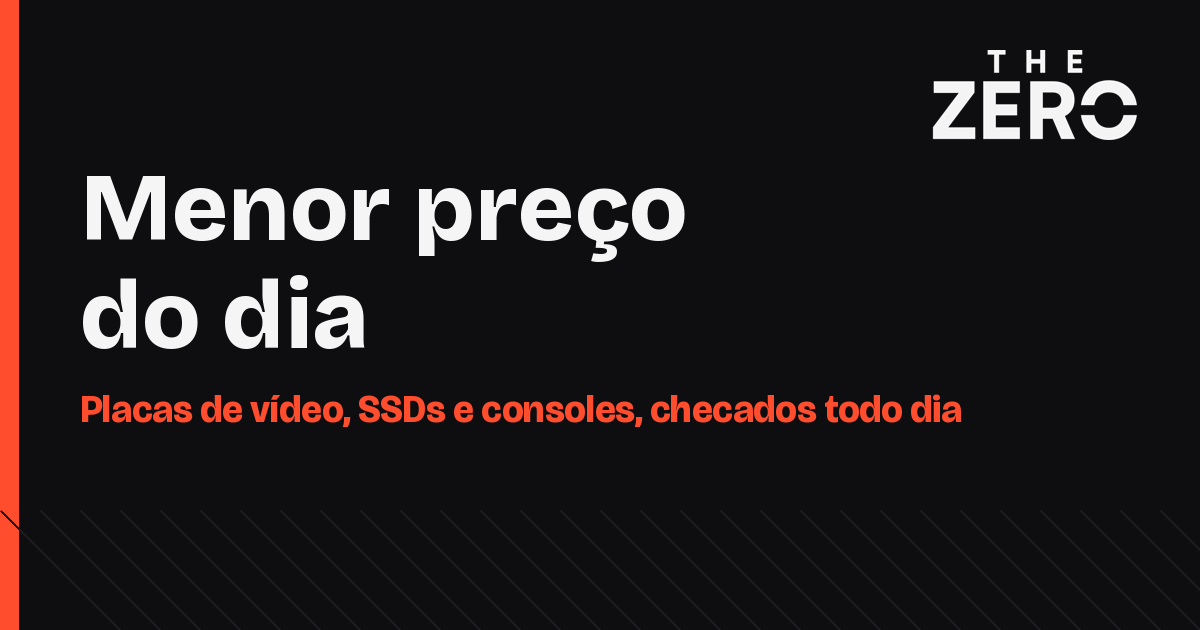
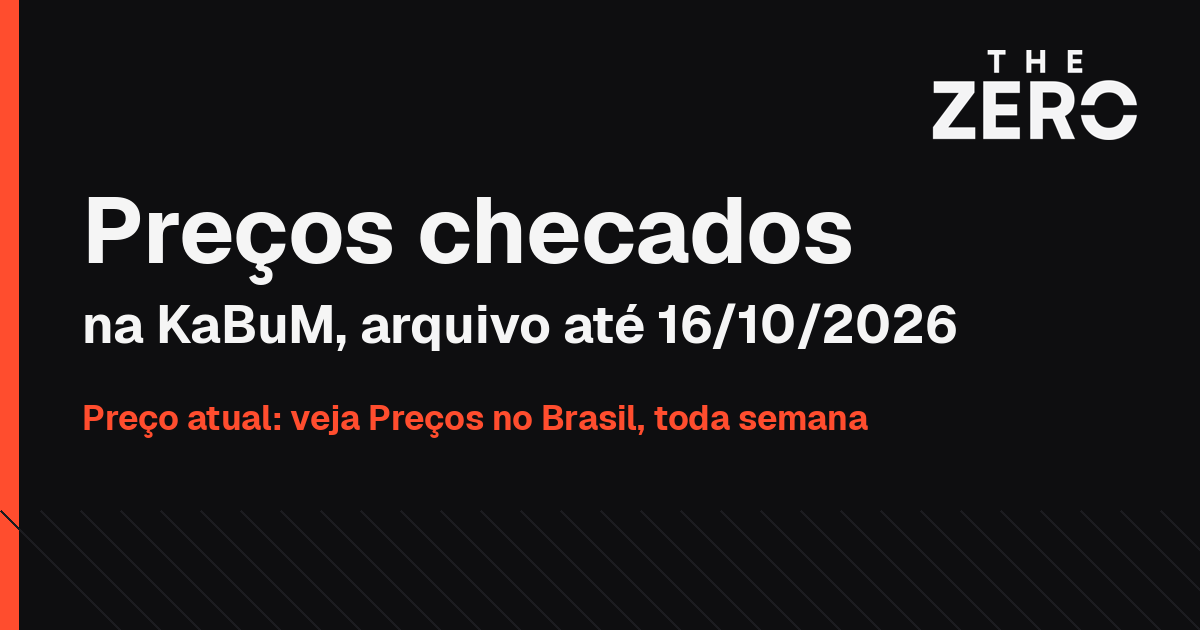
Menor preço: texto verdadeiro (checagem pausada desde 16/10) e links para Preços no Brasil (#582)

Changed region(s): [[0.0617, 0.2714, 0.8017, 0.573], [0.0617, 0.6032, 0.8017, 0.6937]]

diff --git a/src/app/menor-preco/page.tsx b/src/app/menor-preco/page.tsx
@@ -9,11 +9,11 @@ import type { Metadata } from "next";
 import Image from "next/image";
 import Link from "next/link";
 
-const title = "Menor preço do dia: placas de vídeo, SSDs e consoles na KaBuM";
+const title = "Preços checados na KaBuM: placas de vídeo, SSDs e consoles";
 const description =
-  "Preço à vista de placas de vídeo, SSDs e consoles conferido todo dia na página da KaBuM, com data e hora de cada checagem e o menor valor já registrado.";
+  "Arquivo de preços à vista de placas de vídeo, SSDs e consoles lidos na página da KaBuM, com data e hora de cada checagem. Preços atuais na tabela semanal Preços no Brasil.";
 const cover = "/images/pages/menor-preco.png";
-const coverAlt = "Arte com o texto Menor preço do dia e a marca The Zero sobre fundo escuro";
+const coverAlt = "Arte com o texto Preços checados na KaBuM, arquivo até 16/10/2026, e a marca The Zero sobre fundo escuro";
 
 export const metadata: Metadata = buildPageMetadata({
   title,
@@ -41,12 +41,15 @@ export default function LowestPricePage() {
         dateModified={priceData.generatedAt}
         items={all.map((item) => ({ name: item.name, url: item.url }))}
       />
-      <Breadcrumbs items={[{ href: "/", label: "Newsroom" }, { label: "Menor preço do dia" }]} />
+      <Breadcrumbs items={[{ href: "/", label: "Newsroom" }, { label: "Preços checados na KaBuM" }]} />
       <p className="eyebrow page-kicker">Rastreador</p>
       <h1 className="page-title mt-3 font-extrabold text-balance">{title}</h1>
       <p className="lede mt-4">
-        Um robô do The Zero abre a página de cada produto na KaBuM todo dia de manhã e lê o preço que a própria
-        página informa. Sem estimativa, sem preço inventado: se a leitura falha, o item fica marcado.
+        Esta página guarda os preços que um robô do The Zero leu na página de cada produto na KaBuM. A checagem
+        automática está pausada: a última leitura é de{" "}
+        <time dateTime={priceData.generatedAt}>{formatBRT(priceData.generatedAt)}</time>, e os valores abaixo
+        podem não valer mais. Para preço atual, veja a tabela{" "}
+        <Link href="/precos-no-brasil">Preços no Brasil</Link>, conferida toda semana em lojas brasileiras.
       </p>
       <p className="mt-3 text-sm text-muted">
         Última atualização desta página: <time dateTime={priceData.generatedAt}>{formatBRT(priceData.generatedAt)}</time>.
@@ -125,8 +128,9 @@ export default function LowestPricePage() {
             for, ou se a página não abrir, o preço anterior fica com a data antiga e o item é marcado.
           </li>
           <li>
-            A checagem roda todo dia por volta das 06:15 (horário de Brasília). A página só é republicada quando algum
-            preço ou estoque muda, ou a cada 3 dias. Preço com mais de 48 horas aparece como desatualizado.
+            A checagem automática rodou todo dia de manhã até 16/10/2026 e está pausada desde então. Preço com mais de
+            48 horas aparece como desatualizado. Para valores atuais, use a tabela{" "}
+            <Link href="/precos-no-brasil">Preços no Brasil</Link>.
           </li>
           <li>
             &quot;Menor registrado&quot; é o menor preço que o nosso robô viu com o produto em estoque, desde que o item

diff --git a/src/app/ferramentas/montar-pc/page.tsx b/src/app/ferramentas/montar-pc/page.tsx
@@ -62,7 +62,7 @@ export default function Page() {
         <li>Compatibilidade primeiro: processador e placa-mãe do mesmo soquete (AM4 ou AM5), memória do tipo que a placa aceita (DDR4 ou DDR5), sempre em dois pentes pra usar dual channel.</li>
         <li>Fonte com folga pela <Link href="/ferramentas/calculadora-de-fonte">calculadora de fonte</Link> e pela recomendação oficial da placa de vídeo.</li>
         <li>Links conferidos na KaBuM em {builds.checkedAt.split("-").reverse().join("/")}: a página abriu e o nome do produto bate com a tabela.</li>
-        <li>Preço não aparece aqui. Pra placas de vídeo e SSDs, o <Link href="/menor-preco">menor preço do dia</Link> mostra o valor checado com data e hora.</li>
+        <li>Preço não aparece aqui. Pra placas de vídeo e SSDs, a <Link href="/precos-no-brasil">tabela de preços no Brasil</Link> mostra o valor checado em loja, com link e data.</li>
       </ul>
       <p>
         Leia também: <Link href="/noticia/pc-gamer-ate-4-mil-2026">PC gamer até R$ 4 mil</Link> ·{" "}

diff --git a/src/app/page.tsx b/src/app/page.tsx
@@ -135,8 +135,8 @@ export default function HomePage() {
       <section aria-label="Ofertas" className="border-b border-border py-5">
         <p className="text-[0.65rem] tracking-[0.2em] text-muted uppercase">Ofertas</p>
         <div className="mt-2 flex flex-wrap gap-x-6 gap-y-2 text-sm">
-          <Link href="/menor-preco" className="font-medium hover:text-accent">
-            Menor preço do dia: placas de vídeo, SSDs e consoles checados na KaBuM →
+          <Link href="/precos-no-brasil" className="font-medium hover:text-accent">
+            Preços no Brasil: consoles, celulares e placas de vídeo, conferidos toda semana →
           </Link>
           <Link href="/black-friday" className="font-medium hover:text-accent">
             Black Friday 2026: o que vale comprar →

diff --git a/src/components/deals/event-guide.tsx b/src/components/deals/event-guide.tsx
@@ -44,8 +44,8 @@ export function EventGuide({ event }: { event: DealEvent }) {
       <p className="lede mt-4">{event.lede}</p>
       <p className="mt-3 text-sm text-muted">
         Atualizado em <time dateTime={event.updatedIso}>{event.updatedLabel}</time>. Sem preço nesta página:
-        preço muda todo dia. Os valores checados, com data e hora, ficam no{" "}
-        <Link className="underline" href="/menor-preco">rastreador de menor preço do dia</Link>.
+        preço muda todo dia. Os valores checados em loja, com link e data, ficam na{" "}
+        <Link className="underline" href="/precos-no-brasil">tabela de preços no Brasil</Link>.
       </p>
       <Image
         src={event.cover}

diff --git a/src/app/layout.tsx b/src/app/layout.tsx
@@ -130,7 +130,7 @@ export default function RootLayout({ children }: LayoutProps<"/">) {
       label: "Ofertas",
       menuLabel: "Compras",
       links: [
-        { href: "/menor-preco", label: "Menor preço do dia" },
+        { href: "/precos-no-brasil", label: "Preços no Brasil" },
         { href: "/black-friday", label: "Black Friday 2026" },
         { href: "/11-11", label: "11.11" },
         { href: "/prime-day", label: "Prime Day" },

diff --git a/src/components/layout/site-footer.tsx b/src/components/layout/site-footer.tsx
@@ -74,11 +74,6 @@ export function SiteFooter() {
               </Link>
             </li>
             <li>
-              <Link href="/menor-preco" className="hover:text-accent">
-                Menor preço do dia
-              </Link>
-            </li>
-            <li>
               <Link href="/sobre" className="hover:text-accent">
                 Sobre
               </Link>

diff --git a/src/app/ferramentas/meu-pc-roda/page.tsx b/src/app/ferramentas/meu-pc-roda/page.tsx
@@ -30,7 +30,7 @@ export default function Page() {
       </ul>
       <p>
         Vai trocar de peça? Veja a <Link href="/ferramentas/calculadora-de-fonte">calculadora de fonte</Link> e o{" "}
-        <Link href="/menor-preco">menor preço do dia</Link>.
+        <Link href="/precos-no-brasil">tabela de preços no Brasil</Link>.
       </p>
     </ToolPage>
   );
